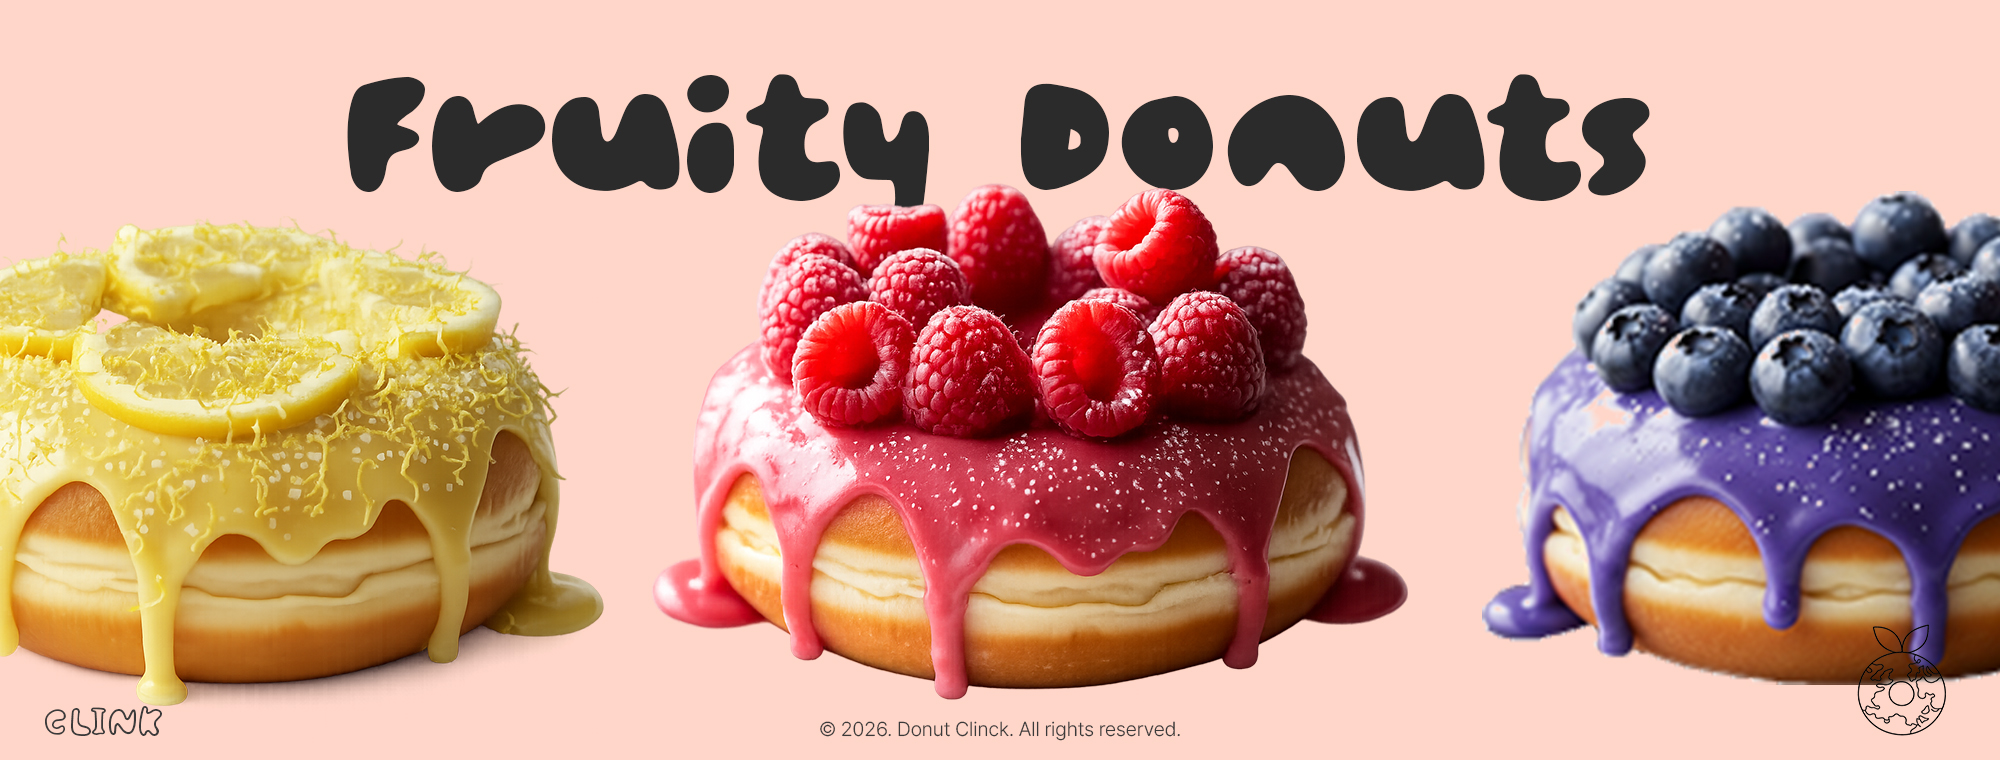
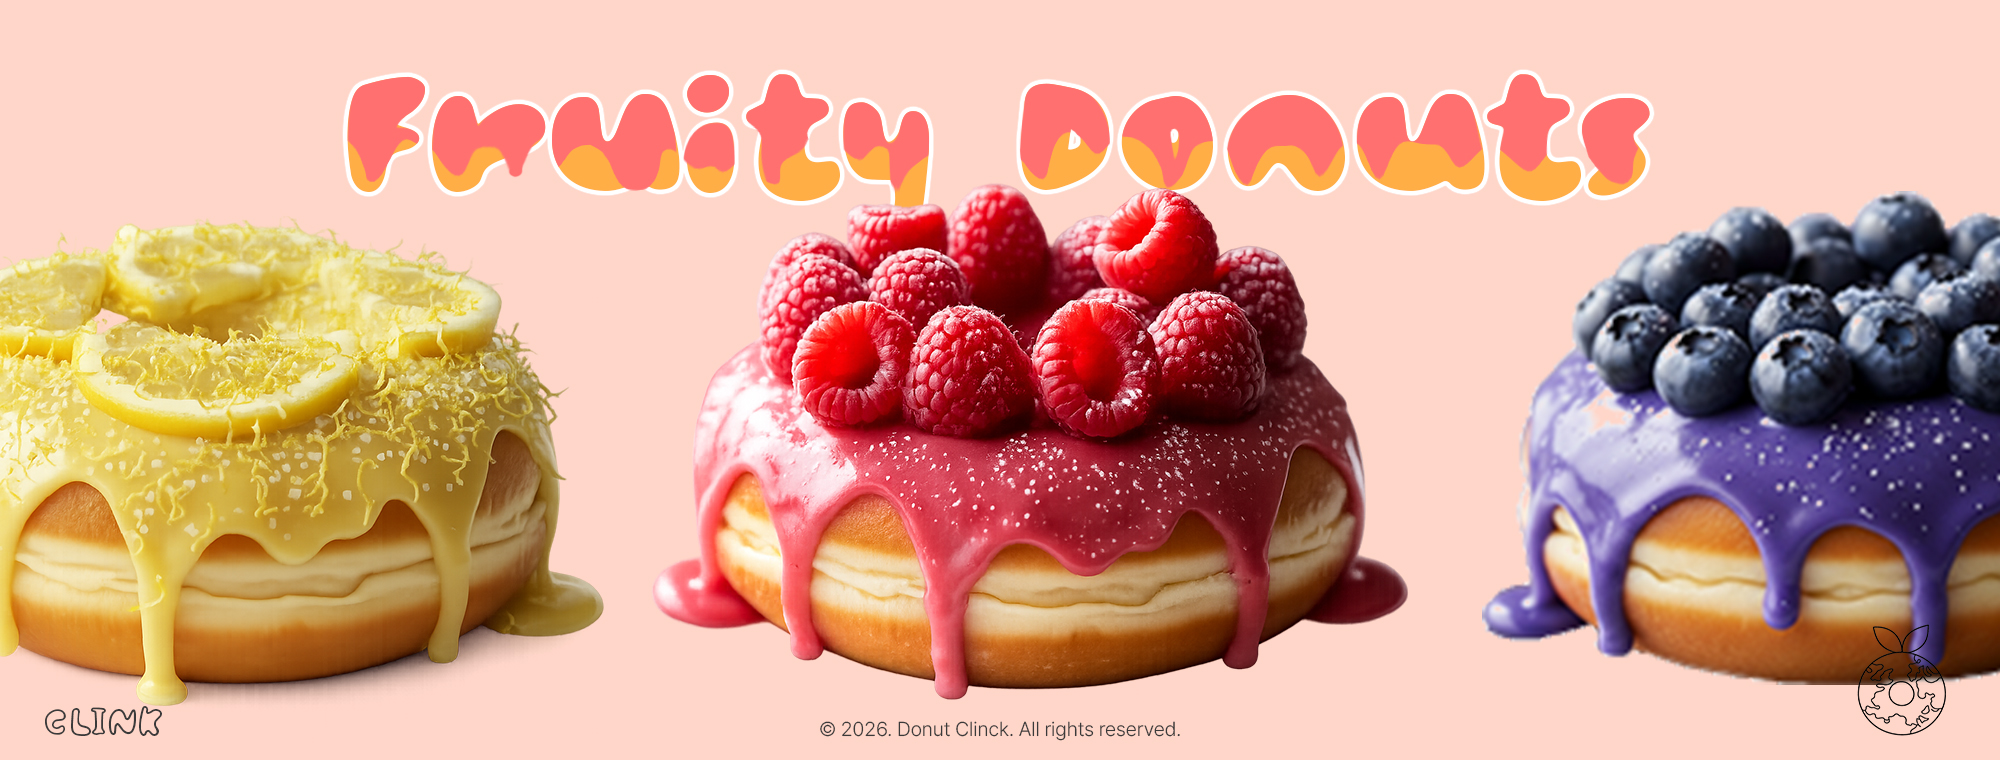
배너사진변경

Changed region(s): [[0.496, 0.0908, 0.837, 0.2724], [0.155, 0.0908, 0.465, 0.2724]]

diff --git a/index.html b/index.html
@@ -390,11 +390,11 @@
       <div class="footer-info">
         <h3 class="footer-title">회사정보</h3>
         <ul class="footer-list">
-          <li>주식회사 지에프에프지</li>
-          <li>서울특별시 강남구 학동로82길 7</li>
-          <li>사업자등록번호 : 248-81-00620</li>
-          <li>통신판매업신고번호 : 2020-서울강남-02297</li>
-          <li>대표이사 : 이준범</li>
+          <li>주식회사 에프에프지</li>
+          <li>서울특별시 강남구 학동로123길 7</li>
+          <li>사업자등록번호 : 234-81-00622</li>
+          <li>통신판매업신고번호 : 2026-서울강남-02212</li>
+          <li>대표이사 : 최승아</li>
         </ul>
       </div>
       <div class="footer-social">
